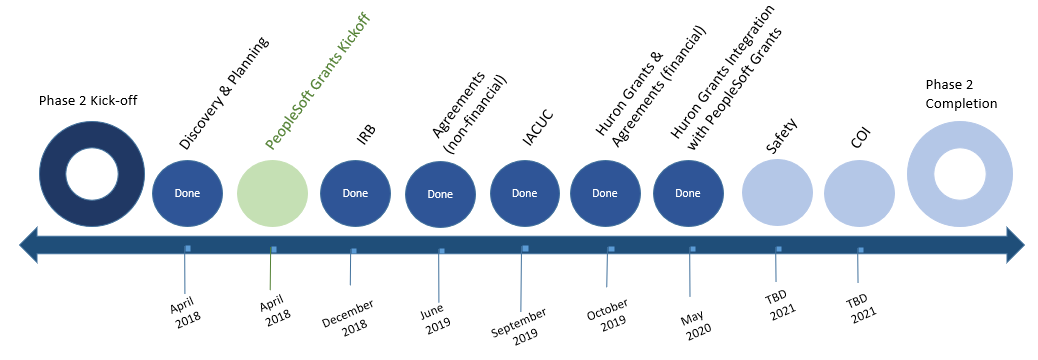
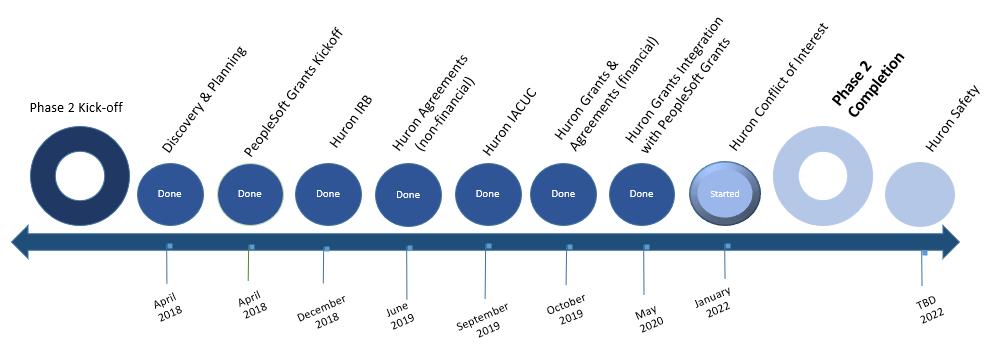
WAH-90: added new phase 1 section and removed some as requested. also updated the phase 2 timeline image

diff --git a/index.html b/index.html
@@ -150,91 +150,80 @@
     <section id="overview">
         <div class="container">
 			<div class="row">
-                <div class="col-lg-12 text-center">
-                    <h4 class="section-heading">Project Overview</h4>
-					<h3 class="section-subheading text-muted">Phase 2</h3></br>
-					<h4 class="service-heading">Phase 2 Timeline</h4>
-                <img class="img-responsive" src="img/Phase2timeline.png">
-                </div>
-            </div>
-					
-            <div class="row text-center">
-                <div class="col-md-6 col-sm-12">
-                    <h4 class="service-heading">Phase 2 Scope</h4>
-                    <ul class="text-muted text-left col-lg-10 col-lg-offset-2">
-						<li>eRA system implementation – Huron Research Suite</li>
-						<li>PeopleSoft Grants module implementation</li>
-						<li>Huron Grants & PeopleSoft Grants Integration</li>
-						<li>Change Management</li>
-   						<li>Training</li>                        
-					</ul>
-                </div>
-                <div class="col-md-6 col-sm-12">
-                    <h4 class="service-heading">FSS Projects Related to Wahoo</h4>
-                    <ul class="text-muted text-left col-lg-10 col-lg-offset-2">
-						<li>FSS Chart of Accounts Redesign</li>
-						<li>PeopleSoft Grants Implementation</li>
-					</ul>
-				</div>
-            </div>
+        <div class="col-lg-12 text-center">
+          <h4 class="section-heading">Project Overview</h4>
+          <h3 class="section-subheading text-muted">Phase 2</h3>
+          </br>
+          <h4 class="service-heading">Phase 2 Timeline</h4>
+          <img class="img-responsive" src="img/Phase2timeline.png">
+        </div>
+      </div>
 
-			<div class="row text-center">
-				<div class="col-md-6 col-sm-12">
-				
-					<h4 class="service-heading">Phase 3 Scope</h4>
-					<ul class="text-muted text-left col-lg-8 col-lg-offset-2">
-						<li>eRA System Implementation and PeopleSoft integration</li>
-						<li>Change Management</li>
-						<li>Training initiatives</li>
-					</ul>
-				</div>
-			</div>
+      <div class="row text-center">
+        <div class="col-md-6 col-sm-12">
+          <h4 class="service-heading">Phase 1 Scope</h4>
+          <ul class="text-muted text-left col-lg-10 col-lg-offset-2">
+            <li>Organizational readiness assessment</li>
+            <li>Business process alignment</li>                    
+          </ul>
+        </div>
+        <div class="col-md-6 col-sm-12">
+          <h4 class="service-heading">Phase 2 Scope</h4>
+          <ul class="text-muted text-left col-lg-10 col-lg-offset-2">
+            <li>eRA system implementation – Huron Research Suite</li>
+            <li>PeopleSoft Grants module implementation</li>
+            <li>Huron Grants & PeopleSoft Grants Integration</li>
+            <li>Change Management</li>
+            <li>Training</li>                        
+          </ul>
+        </div>
+      </div>
 
 			<!-- create expanded text column under this button -->
-            <div class="col-lg-12" style="margin-top: 30px;">
-              <hr class="hidden-xs hidden-sm" style="margin:auto; width:75%;">
-              <div class="text-center">
-               <h3 class="section-subheading text-center text-muted" id="grants">Grants Project</h3><br/>
-               <h4 class="service-heading">Grants Timeline</h4>
-               <img class="img-responsive" src="img/grantsTimeline.png"> <br/><br/>
-               <h4 class="service-heading">Important Information</h4>
-             </div>
-                <ul id="basics" class="cd-faq-group" style="list-style-type:none">
-                  <li>
-                      <a class="cd-faq-trigger" href="#0">
-                          <span class="glyphicon glyphicon-menu-down more-less" aria-hidden="true"></span>
-                          What is it? 
-                      </a>
-                      <div class="cd-faq-content">
-                          <p>Huron Grants is a comprehensive solution for proposal submission and award management. The system ensures successful proposal creation and budget development, electronic submission to Grants.gov, and post-award management capabilities including award setup, modification entry, and budget reconciliation to enter and track sponsor approved budgets.</p>
-                      </div> <!-- cd-faq-content -->
-                  </li>
+      <div class="col-lg-12" style="margin-top: 30px;">
+        <hr class="hidden-xs hidden-sm" style="margin:auto; width:75%;">
+        <div class="text-center">
+          <h3 class="section-subheading text-center text-muted" id="grants">Grants Project</h3><br/>
+          <h4 class="service-heading">Grants Timeline</h4>
+          <img class="img-responsive" src="img/grantsTimeline.png"> <br/><br/>
+          <h4 class="service-heading">Important Information</h4>
+        </div>
+          <ul id="basics" class="cd-faq-group" style="list-style-type:none">
+            <li>
+                <a class="cd-faq-trigger" href="#0">
+                    <span class="glyphicon glyphicon-menu-down more-less" aria-hidden="true"></span>
+                    What is it? 
+                </a>
+                <div class="cd-faq-content">
+                    <p>Huron Grants is a comprehensive solution for proposal submission and award management. The system ensures successful proposal creation and budget development, electronic submission to Grants.gov, and post-award management capabilities including award setup, modification entry, and budget reconciliation to enter and track sponsor approved budgets.</p>
+                </div> <!-- cd-faq-content -->
+            </li>
 
-                  <li>
-                      <a class="cd-faq-trigger" href="#0">
-                          <span class="glyphicon glyphicon-menu-down more-less" aria-hidden="true"></span>
-                          Why is it important?
-                      </a>
-                      <div class="cd-faq-content">
-                          <p>Migrating from ARGIS to Huron Grants will provide ease of use for principle investigators (PIs), reviewers, and the Office of Research to complete actions within the system. The reports and metrics from Huron Grants are more advanced and will provide better insight into submission details. Improvements to routing and business processes will make contract submissions more efficient.</p>
-                      </div> <!-- cd-faq-content -->
-                  </li>
+            <li>
+                <a class="cd-faq-trigger" href="#0">
+                    <span class="glyphicon glyphicon-menu-down more-less" aria-hidden="true"></span>
+                    Why is it important?
+                </a>
+                <div class="cd-faq-content">
+                    <p>Migrating from ARGIS to Huron Grants will provide ease of use for principle investigators (PIs), reviewers, and the Office of Research to complete actions within the system. The reports and metrics from Huron Grants are more advanced and will provide better insight into submission details. Improvements to routing and business processes will make contract submissions more efficient.</p>
+                </div> <!-- cd-faq-content -->
+            </li>
 
-                  <li>
-                      <a class="cd-faq-trigger" href="#0">
-                          <span class="glyphicon glyphicon-menu-down more-less" aria-hidden="true"></span>
-                          When will it be implemented?
-                      </a>
-                      <div class="cd-faq-content">
-                          <p>Huron Grants was successfully implemented on October 21, 2019.</p>
-                      </div> <!-- cd-faq-content -->
-                  </li>
-                </ul>
-            <div class="text-center"><br><br><br><br><br>
-            </div>
-            </div>
+            <li>
+                <a class="cd-faq-trigger" href="#0">
+                    <span class="glyphicon glyphicon-menu-down more-less" aria-hidden="true"></span>
+                    When will it be implemented?
+                </a>
+                <div class="cd-faq-content">
+                    <p>Huron Grants was successfully implemented on October 21, 2019.</p>
+                </div> <!-- cd-faq-content -->
+            </li>
+          </ul>
+      <div class="text-center"><br><br><br><br><br>
+      </div>
+      </div>
             
-            <hr class="hidden-xs hidden-sm" style="margin:auto; width:75%;">
+      <hr class="hidden-xs hidden-sm" style="margin:auto; width:75%;">
 			<div class="row text-center center">
 				<div class="col-lg-12 text-center">
                 	
@@ -242,7 +231,7 @@
 				   <h4 class="service-heading">IRB Project Timeline</h4>
 				   <img class="img-responsive" src="img/Irbtimeline_2.png">
 				</div>
-            </div>
+      </div>
 			
 			<!-- create expanded text column under this button -->
 			<div class="row ">
@@ -1393,7 +1382,7 @@ For any study that has been approved by the IRB Office, Faculty Advisors should 
          <a style="color:black!important ;"href="https://rising.it.ucf.edu/" target="_blank" class="facebook"><span class="glyphicon glyphicon-globe"></span>&nbsp;<span style="text-decoration:underline;">UCF Rising</span></a>
     </div><br/>
     <div class="icon-bar" id="collapsecontent"> 
-         <a href="#" class="facebook"> Last updated on: <strong>02/23/2021</strong>  </a>
+         <a href="#" class="facebook"> Last updated on: <strong>05/04/2021</strong>  </a>
     </div>
 
 </body>
